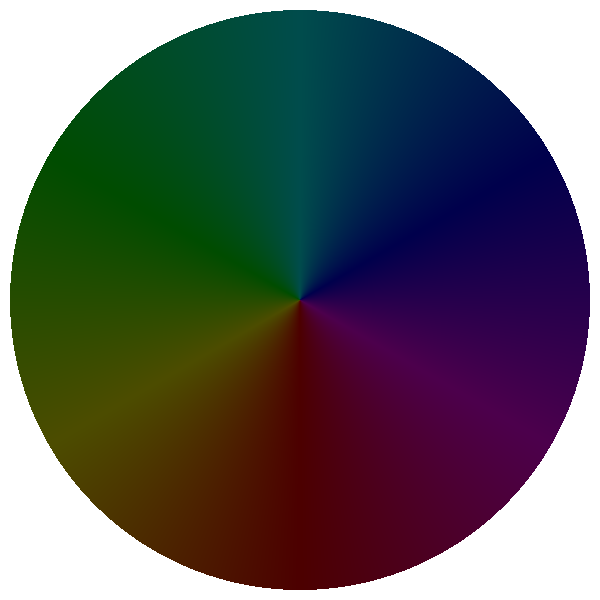
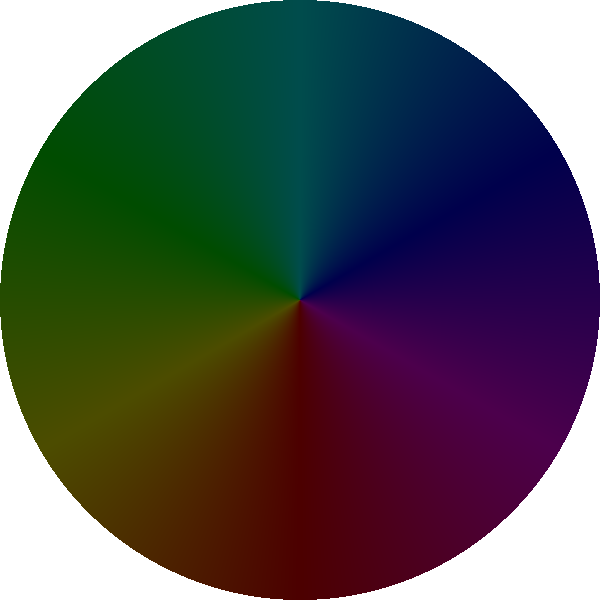
Dizzying yet?

Changed region(s): [[0.0, 0.0, 1.0, 1.0]]

diff --git a/src/main/java/com/giantrainbow/patterns/SpinnyDiscs.java b/src/main/java/com/giantrainbow/patterns/SpinnyDiscs.java
@@ -35,6 +35,7 @@ public class SpinnyDiscs extends CanvasPattern2D {
   public final float SPIN_RATE = 10f; // Speed range (whole canvas)
   public final float MAX_SPEED = 5f; // Speed range
   public final float MIN_SPEED = 1f; // Speed range
+  public final float BG_RATE = 100f;
   public final float AB_MAX = 6;
   public final float MSHZ = 1 / 100000f; // Arbitrary slowdown of the millisecond counter
 
@@ -50,6 +51,10 @@ public class SpinnyDiscs extends CanvasPattern2D {
 
   public final CompoundParameter brightKnob =
       new CompoundParameter("Bright", 0.5, 0, 1).setDescription("Bright");
+  public final CompoundParameter bgRateKnob =
+      new CompoundParameter("Background rate", 10, 1, 100).setDescription("Background rate");
+  public final CompoundParameter bgLevelKnob =
+      new CompoundParameter("Background level", 0.1, 0, 1).setDescription("Background level");
 
   // Count determines the number of balls that render.  They are
   // animated continuously, so raising and lower the number will
@@ -112,6 +117,8 @@ public class SpinnyDiscs extends CanvasPattern2D {
 
     pg.textureWrap(CLAMP);
 
+    computeBackground();
+
     int minDist = 20;
     for (; ; ) {
       ArrayList<Ball> list = new ArrayList<Ball>();
@@ -161,6 +168,8 @@ public class SpinnyDiscs extends CanvasPattern2D {
     addParameter(sizeKnob);
     addParameter(rangeKnob);
     addParameter(brightKnob);
+    addParameter(bgLevelKnob);
+    addParameter(bgRateKnob);
   }
 
   void setTexture(double bright) {
@@ -190,6 +199,31 @@ public class SpinnyDiscs extends CanvasPattern2D {
     this.texture.updatePixels();
   }
 
+  final int bgLevels = 1;
+  final int bgGradSize = 360;
+  final double brightIncr = 0.05;
+  final double brightOffset = 0.00;
+  int bgcolor[];
+
+  public void computeBackground() {
+    bgcolor = new int[bgLevels * bgGradSize];
+
+    for (int l = 0; l < bgLevels; l++) {
+      String file = String.format("images/lch-disc-%.02f.png", brightOffset + l * brightIncr);
+      PImage bgTexture = RainbowStudio.pApplet.loadImage(file);
+      bgTexture.loadPixels();
+      final int tolerance = 1;
+      final int center = bgTexture.width / 2;
+
+      for (int b = 0; b < bgGradSize; b++) {
+        final double theta = 2.0 * Math.PI * (double) b / (double) bgGradSize;
+        final int xpos = center + (int) (Math.cos(theta) * (double) (center - tolerance));
+        final int ypos = center + (int) (Math.sin(theta) * (double) (center - tolerance));
+        bgcolor[l * bgGradSize + b] = bgTexture.pixels[ypos * bgTexture.width + xpos];
+      }
+    }
+  }
+
   public void draw(double deltaMs) {
     double speed = speedKnob.getValue();
     telapsed += (float) (deltaMs * speed);
@@ -198,8 +232,15 @@ public class SpinnyDiscs extends CanvasPattern2D {
 
     setTexture(brightKnob.getValue());
 
-    pg.background(Colors.BLACK);
-    // Colors.hsb(relapsed * BACKGROUND_SPEED * MSHZ, BACKGROUND_SAT, BACKGROUND_BRIGHT));
+    int bgc =
+        bgcolor[(int) (telapsed * BG_RATE * (float) bgRateKnob.getValue() * MSHZ) % bgGradSize];
+    float bgl = (float) bgLevelKnob.getValue();
+
+    pg.background(
+        Colors.rgb(
+            (int) ((float) Colors.red(bgc) * bgl),
+            (int) ((float) Colors.green(bgc) * bgl),
+            (int) ((float) Colors.blue(bgc) * bgl)));
 
     pg.translate(canvas.width() / 2, 0);
     pg.rotate(relapsed * SPIN_RATE * MSHZ);

diff --git a/src/main/java/com/giantrainbow/model/space/maketexture.go b/src/main/java/com/giantrainbow/model/space/maketexture.go
@@ -18,7 +18,7 @@ type (
 const (
 	W         = 600
 	Center    = W / 2
-	Tolerance = 10
+	Tolerance = 0
 	R2        = (Center - Tolerance) * (Center - Tolerance)
 )
 
@@ -29,10 +29,10 @@ func main() {
 
 func writeTextures(pfx string, cfunc Cfunc) {
 	const (
-		num    = 10
-		factor = 0.10
+		num    = 21
+		factor = 0.05
 	)
-	for i := 1; i <= num; i++ {
+	for i := 0; i <= num; i++ {
 		l := float64(i) * factor
 		writeTexture(pfx, l, makeTexture(l, cfunc))
 	}
